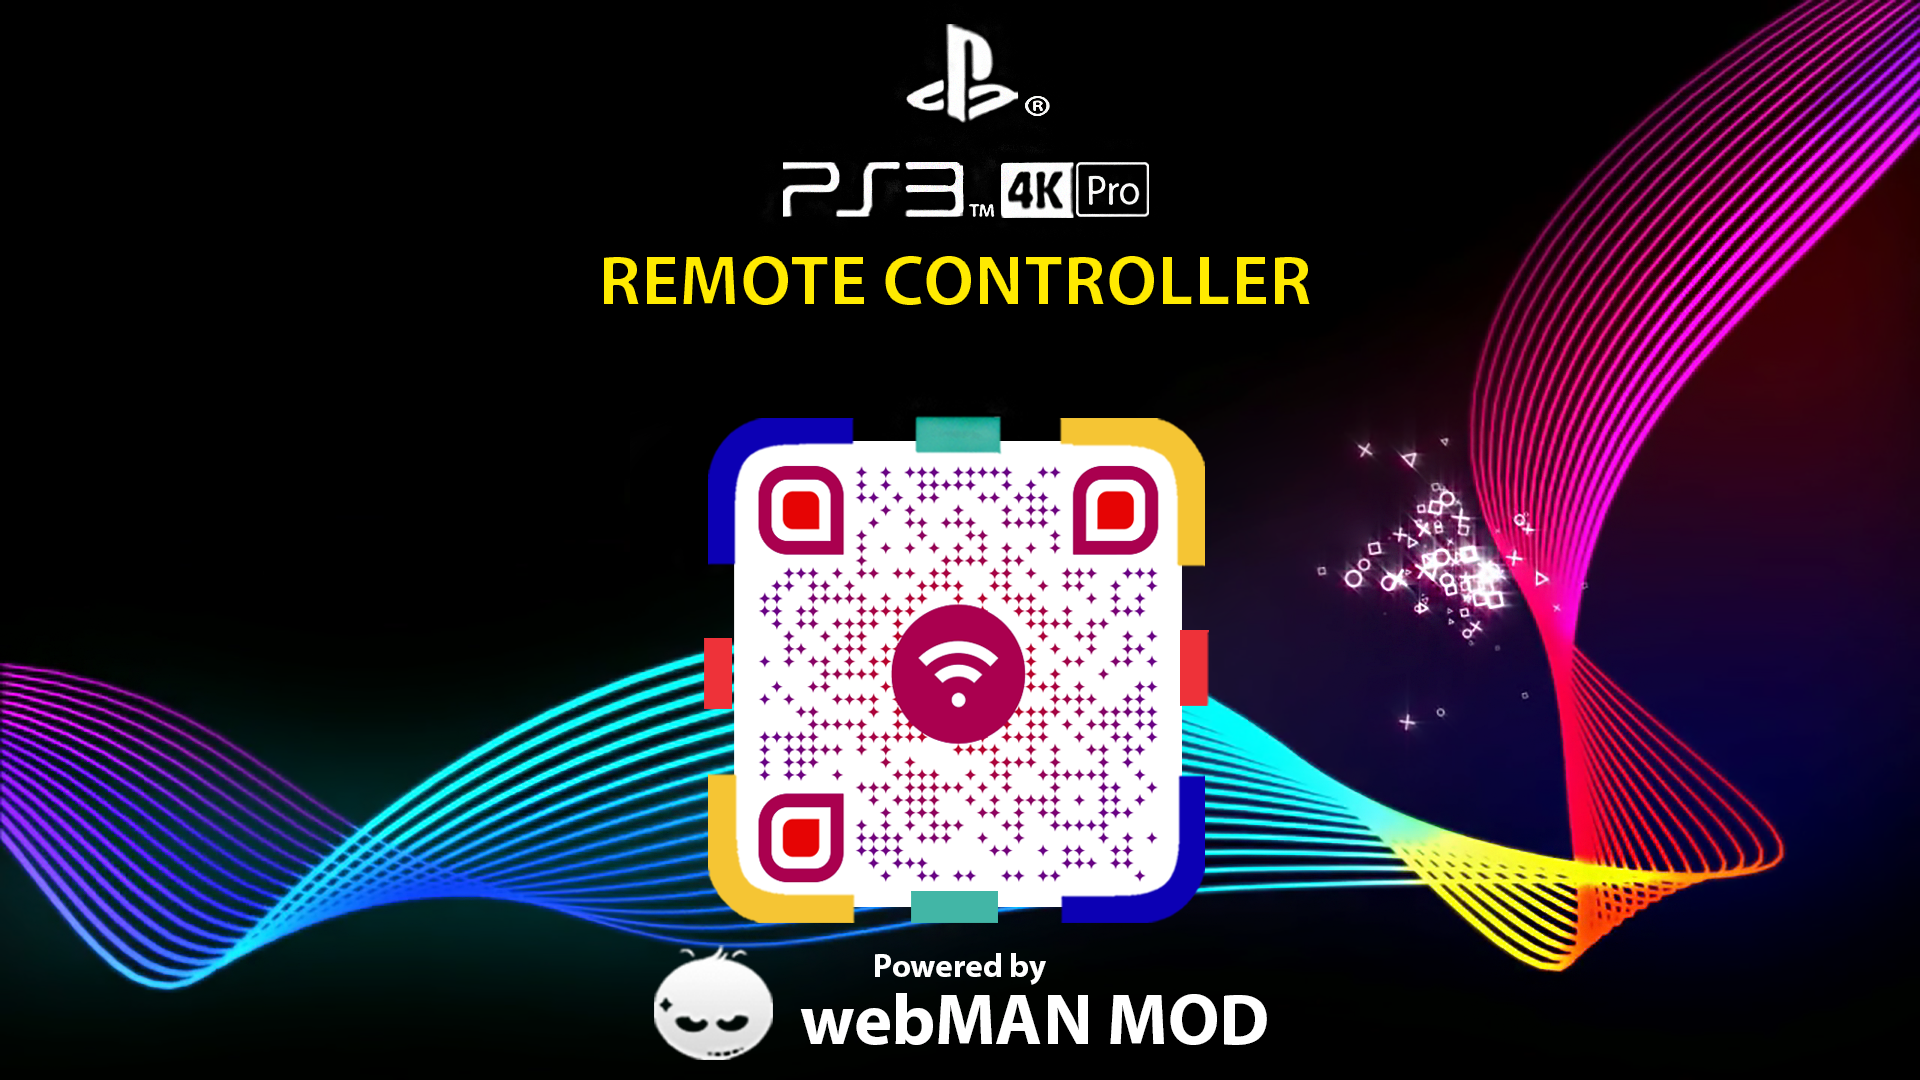
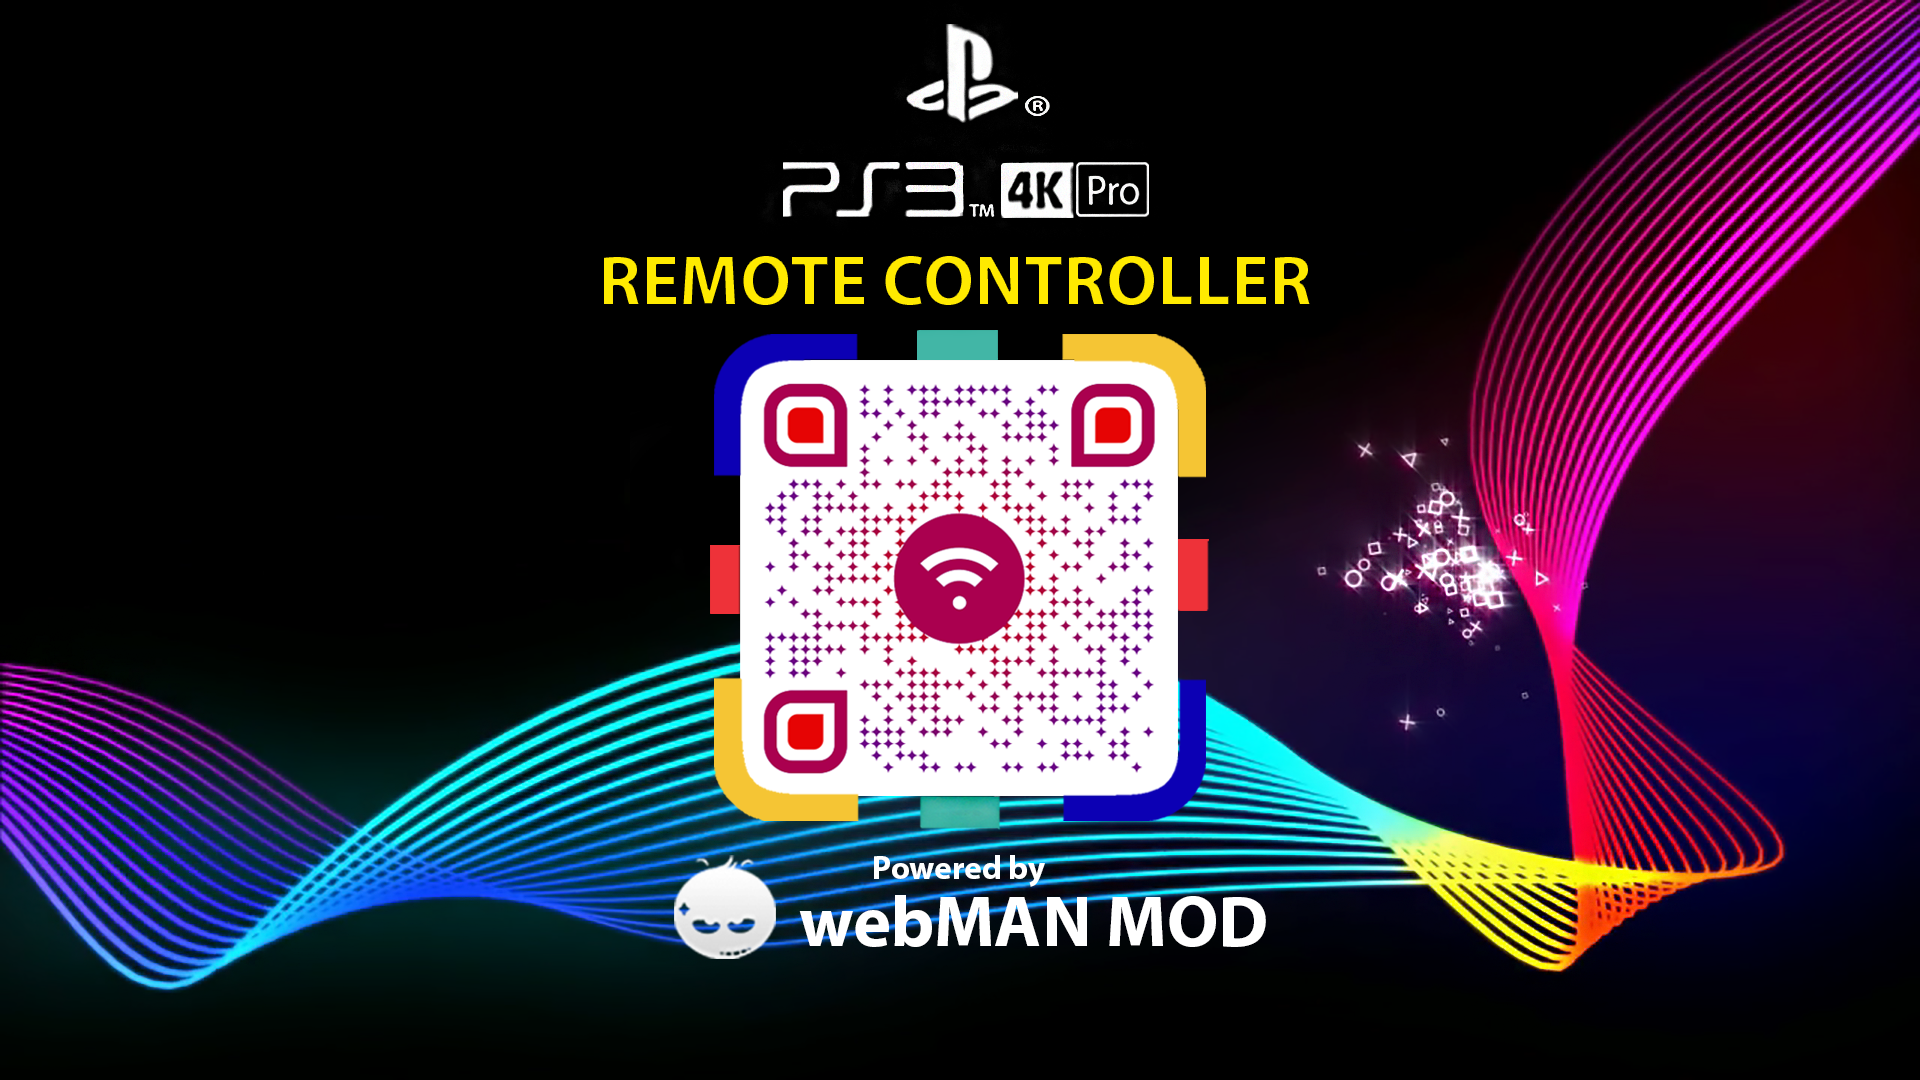
Online resources

Changed region(s): [[0.3438, 0.3056, 0.6562, 0.9778]]

diff --git a/Web_Pages/remote_controller.html b/Web_Pages/remote_controller.html
@@ -1,52 +1,100 @@
 <!-- Coded for PS3™ 4K Pro by Luan Teles -->
 
 <html>
-<head>
-<style>
-body { background-image:url("http://raw.githubusercontent.com/LuanTeles/PS3-4K-Pro/main/Web_Pages/media/remote_controller.png");
-background-size: 100%; margin-top: 3%; margin-left: 8%; margin-right: 8%; marginbottom: 8%;}
-body {background-color:#000000;}
-body {color:white;}
-
-.center {
-  margin: 0;
-  position: absolute;
-  top: 35%;
-  left: 45%;
-  -ms-transform: translate(-50%, -50%);
-  transform: translate(-50%, -50%);
-}
-
-.btnStyle {
-outline-color:white;
-border: 2px;
-}
-
-.btnStyle:focus {
-	color: white;
-	background: #0000aa;
-	outline-color:white;
-}
-
-</style>
-</head>
+   <head>
+      <title>PlayStation® Controller</title>
+   </head>
+   <script>
+      javascript:window.resizeTo(1826,1026)
+   </script>
+   <script>
+      document.getElementById("start_url").setAttribute("value", getDefaultValue("start_url", "http://"));
+   </script>
+   <body onload="changeScreenSize()">
+      <style>
+         body { background-image:url("http://raw.githubusercontent.com/LuanTeles/PS3-4K-Pro/main/Web_Pages/media/remote_controller.png");
+         background-size: 100% auto; margin-top: 3%; margin-left: 8%; margin-right: 8%; marginbottom: 8%;}
+         body {background-color:#000000;}
+         body {color:white;}
+         .center {
+         margin: 0;
+         position: absolute;
+         top: 35%;
+         left: 45%;
+         -ms-transform: translate(-50%, -50%);
+         transform: translate(-50%, -50%);
+         }
+         .btnStyle {
+         outline-color:white;
+         border: 2px;
+         }
+         .btnStyle:focus {
+         color: white;
+         background: #0000aa;
+         outline-color:white;
+         }
+      </style>
+      </head>
+      <br>
+      <br>
+      <br>
+      <br>
+      <br>
+      <br>
+      <br>
+      <br>
+      <br>
+      <br>
+      <br>
+      <br>
+      <br>
+      <br>
+      <br>
+      <br>
+      <br>
+      <br>
+      <br>
+      <script>
+         function accessfunction(data)
+         {
+         	document.getElementById("accessFunctionText").innerHTML = data + document.getElementById("accessFunctionText").innerHTML;
+         }
+          
+         
+         function goTo(URL)
+         {
+             document.cookie="start_url=" + URL;
+         	window.location.href = URL;
+         }
+         
+         
+         function getDefaultValue(key, def_value)
+         {
+             var c = key + "=";
+             var cookies = document.cookie.split(';');
+         
+             for(var i = 0; i < cookies.length; i++)
+             {
+                 while(cookies[i].charAt(0)==' ') cookies[i]=cookies[i].substring(1);
+                 if(cookies[i].indexOf(c) != -1) return cookies[i].substring(c.length,cookies[i].length);
+             }	
+         
+             return def_value;
+         }
+      </script>
+      <div id="ip_adress" align="center">
+   </body>
+   <body onload=initPage() >
+   <form>
+   <span id="firstStart"></span><br>
+   <input id="start_url" type="text" name="url" size="80"/> 
+   <input type="Button" class="btnStyle" value="->" onclick="goTo(form.url.value)"/><br>
+   </form>
+   <p id="accessFunctionText"></p>
+   </body>
+   </div>
+   <div style="button-position: border-box; width: 1620px; height: 50px; text-align: center; padding-right: 50px;">
+      <a href="http://raw.githack.com/LuanTeles/PS3-4K-Pro/main/Web_Pages/remote_controller_tutorial.html">
+      <button style="background: #d600ff; border-radius: 16px; padding: 15px; cursor: pointer; color: #fff; border: none; font-size: 16px;">Instructions</button></a>
+   </div>
 </html>
-<br>
-<br>
-<br>
-<br>
-<br>
-<br>
-<br>
-<br>
-<br>
-<br>
-<br>
-<br>
-<br>
-<br>
-<br>
-<div id="ip_adress" align="center">
-<a href="http://raw.githack.com/LuanTeles/PS3-4K-Pro/main/Web_Pages/remote_controller_tutorial.html">
-<button style="background: #d600ff; border-radius: 16px; padding: 15px; cursor: pointer; color: #fff; border: none; font-size: 16px;">Instructions</button></a>
-</script>

diff --git a/Web_Pages/remote_controller_tutorial.html b/Web_Pages/remote_controller_tutorial.html
@@ -1,56 +1,61 @@
 <!-- Coded for PS3™ 4K Pro by Luan Teles -->
 
 <html>
-<head>
-<style>
-body { background-image:url("http://raw.githubusercontent.com/LuanTeles/PS3-4K-Pro/main/Web_Pages/media/remote_controller_tutorial.png");
-background-size: 100%; margin-top: 3%; margin-left: 8%; margin-right: 8%; marginbottom: 8%;}
-body {background-color:#000000;}
-body {color:white;}
-
-.center {
-  margin: 0;
-  position: absolute;
-  top: 35%;
-  left: 45%;
-  -ms-transform: translate(-50%, -50%);
-  transform: translate(-50%, -50%);
-}
-
-.btnStyle {
-outline-color:white;
-border: 2px;
-}
-
-.btnStyle:focus {
-	color: white;
-	background: #0000aa;
-	outline-color:white;
-}
-
-</style>
-</head>
+   <head>
+      <title>PlayStation® Controller</title>
+   </head>
+   <script>
+      javascript:window.resizeTo(screen.width,screen.height)
+   </script>
+   <body onload="changeScreenSize()">
+      <style>
+         body { background-image:url("http://raw.githubusercontent.com/LuanTeles/PS3-4K-Pro/main/Web_Pages/media/remote_controller_tutorial.png");
+		 background-size: 100%; margin-top: 3%; margin-left: 8%; margin-right: 8%; marginbottom: 8%;}
+         body {background-color:#000000;}
+         body {color:white;}
+         .center {
+         margin: 0;
+         position: absolute;
+         top: 35%;
+         left: 45%;
+         -ms-transform: translate(-50%, -50%);
+         transform: translate(-50%, -50%);
+         }
+         .btnStyle {
+         outline-color:white;
+         border: 2px;
+         }
+         .btnStyle:focus {
+         color: white;
+         background: #0000aa;
+         outline-color:white;
+         }
+      </style>
+      <br>
+      <br>
+      <br>
+      <br>
+      <br>
+      <br>
+      <br>
+      <br>
+      <br>
+      <br>
+      <br>
+      <br>
+      <br>
+      <br>
+      <br>
+      <br>
+      <br>
+      <br>
+      <br>
+      <br>
+      <br>
+      <br>
+      <br>
+      <div style="button-position: border-box; width: 1620px; height: 50px; text-align: center; padding-right: 50px;">
+         <a href="http://raw.githack.com/LuanTeles/PS3-4K-Pro/main/Web_Pages/remote_controller.html">
+		<button style="background: #d600ff; border-radius: 16px; padding: 15px; cursor: pointer; color: #fff; border: none; font-size: 16px;">Back</button></a>
+      </div>
 </html>
-<br>
-<br>
-<br>
-<br>
-<br>
-<br>
-<br>
-<br>
-<br>
-<br>
-<br>
-<br>
-<br>
-<br>
-<br>
-<br>
-<br>
-<br>
-<br>
-<div id="ip_adress" align="center">
-<a href="http://raw.githack.com/LuanTeles/PS3-4K-Pro/main/Web_Pages/remote_controller.html">
-<button style="background: #d600ff; border-radius: 16px; padding: 15px; cursor: pointer; color: #fff; border: none; font-size: 16px;">Back</button></a>
-</script>

diff --git a/What's_New/pages/radio.html b/What's_New/pages/radio.html
@@ -1,0 +1,73 @@
+<!-- Coded for PS3™ 4K Pro by Luan Teles -->
+<html>
+   <head>
+      <title>PlayStation® Radio</title>
+   </head>
+   <script>
+      javascript:window.resizeTo(screen.width,screen.height)
+   </script>
+   <body onload="changeScreenSize()">
+      <style>
+         body { background-image:url("http://raw.githubusercontent.com/LuanTeles/PS3-4K-Pro/main/Web_Pages/media/radio.png");
+         background-size: 100% auto;}
+         body {background-color:#000000;}
+         body {color:white;}
+         .btnStyle {
+         outline-color:white;
+         border: 2px;
+         }
+         .btnStyle:focus {
+         color: white;
+         background: #0000aa;
+         outline-color:white;
+         }
+      </style>
+      <br>
+      <br>
+      <br>
+      <br>
+      <br>
+      <br>
+      <br>
+      <br>
+      <br>
+      <br>
+      <br>
+      <br>
+      <br>
+      <br>
+      <br>
+      <br>
+      <script type="text/javascript" src="http://github.com/LuanTeles/PS3-4K-Pro/raw/main/Web_Pages/script/flash_objects.js"></script>
+      <div id="player_936" align="center">
+         <script type="text/javascript">
+            var flashvars_936 = {};
+            var params_936 = {
+            	quality: "low",
+            	wmode: "transparent",
+            	bgcolor: "#ffffff",
+            	allowScriptAccess: "always",
+            	allowFullScreen: "true",
+            	flashvars: "fichier=http://github.com/LuanTeles/ScreenSavers/releases/download/Winamp/Winamp_Visualization.mp4&auto_play=true&apercu=http://flash.webestools.com/flv_player/extract_elephant_dream.png"
+            };
+            var attributes_936 = {};
+            flashObject("http://github.com/LuanTeles/PS3-4K-Pro/raw/main/Web_Pages/swf/video_player/video_player_28.swf", "player_936", "1080", "660", "8", false, flashvars_936, params_936, attributes_936);
+         </script>
+      </div>
+      <div id="player_9428" align="center">
+         <script type="text/javascript">
+            var flashvars_9428 = {};
+            var params_9428 = {
+            	quality: "low",
+            	wmode: "transparent",
+            	bgcolor: "#ffffff",
+            	allowScriptAccess: "always",
+            	allowFullScreen: "true",
+            	flashvars: "url=http://relay.181.fm:8128&autostart=yes"
+            };
+            var attributes_9428 = {};
+            flashObject("http://github.com/LuanTeles/PS3-4K-Pro/raw/main/Web_Pages/swf/music_player/music_player_6.swf", "player_9428", "1080", "35", "8", false, flashvars_9428, params_9428, attributes_9428);
+         </script>
+      </div>
+   </body>
+</html>

diff --git a/Web_Pages/game_communities.html b/Web_Pages/game_communities.html
@@ -1,31 +1,24 @@
 <!-- Coded for PS3™ 4K Pro by Luan Teles -->
 
-<script>
-javascript:window.resizeTo(screen.width,screen.height)</script>
-<link rel="stylesheet" media="screen, print, handheld" type="text/css" href="calendar.css" />
-<script type="text/javascript" src="calendar.js"></script>
-<!-- <script type="text/javascript">calendar();</script> -->
-<style>
-body { background-image:url("http://raw.githubusercontent.com/LuanTeles/PS3-4K-Pro/main/Web_Pages/media/games_schedule.png");
-background-size: 100%; 
-margin-top: 3%; 
-margin-left: 8%; 
-margin-right: 8%; 
-marginbottom: 8%;}
-
-body {background-color:#000000;}
-body {color:white;}
-
-.btnStyle {
-outline-color:white;
-border: 2px;
-}
-
-.btnStyle:focus {
-	color: white;
-	background: #0000aa;
-	outline-color:white;
-}
-</style>
-
-<embed wmode="transparent" src="https://www.xatech.com/web_gear/chat/chat.swf" quality="high" width="100%" height="94%" name="chat" FlashVars="id=220384384" align="center" allowScriptAccess="always" type="application/x-shockwave-flash" pluginspage="https://xat.com/update_flash.php" />
+<html>
+   <head>
+      <title>PlayStation® Communities</title>
+   </head>
+   <script>
+      javascript:window.resizeTo(screen.width,screen.height)
+   </script>
+   <link rel="stylesheet" media="screen, print, handheld" type="text/css" href="calendar.css" />
+   <script type="text/javascript" src="calendar.js"></script>
+   <!-- <script type="text/javascript">calendar();</script> -->
+   <style>
+      body { background-image:url("http://raw.githubusercontent.com/LuanTeles/PS3-4K-Pro/main/Web_Pages/media/chat.png");
+      background-size: 100%; 
+      margin-top: 3%; 
+      margin-left: 8%; 
+      margin-right: 8%; 
+      marginbottom: 8%;}
+      body {background-color:#000000;}
+      body {color:white;}
+   </style>
+   <embed wmode="transparent" src="https://www.xatech.com/web_gear/chat/chat.swf" quality="high" width="100%" height="94%" name="chat" FlashVars="id=220384384" align="center" allowScriptAccess="always" type="application/x-shockwave-flash" pluginspage="https://xat.com/update_flash.php" />
+</html>
